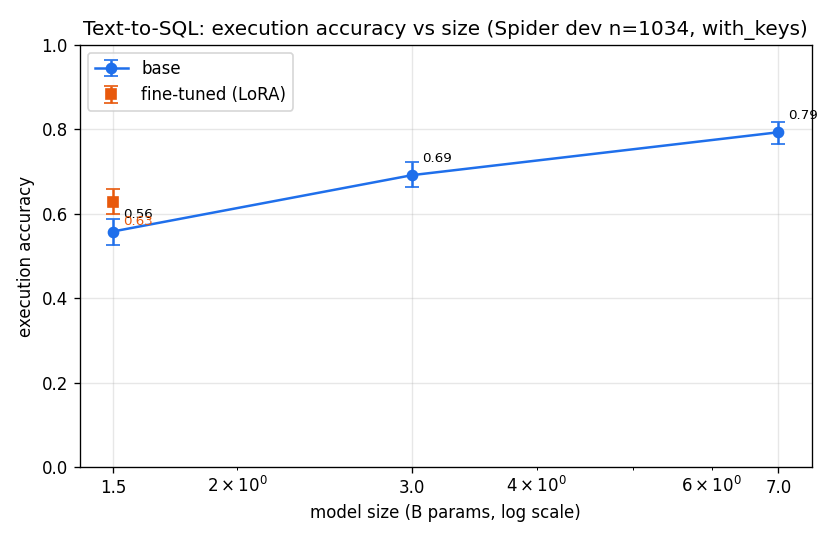
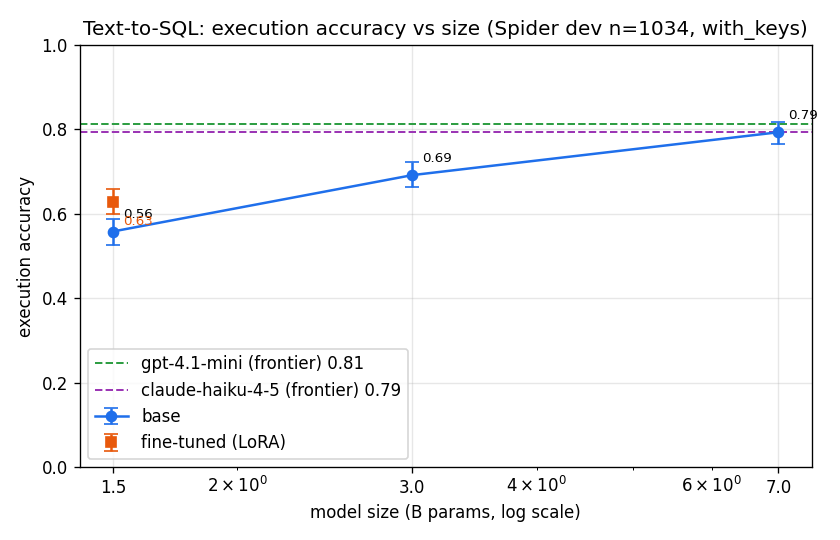
Frontier baseline: GPT-4.1-mini + Claude-haiku via LLMGateway (full dev, CIs)
- gateway.py: concurrent SQL generation via LLMGateway (same prompt/extract as local)
- run_frontier.py: frontier eval on full dev, same official evaluator + bootstrap CIs
- plot_ladder.py: overlays frontier reference lines on the size curve
- RESULT: open 7B (0.79) statistically ties Claude-haiku (0.79) + within noise of
  GPT-4.1-mini (0.81) — frontier-tier text-to-SQL runs locally
- REPORT.md + README updated with frontier rows + 'open matches frontier' finding

diff --git a/scripts/run_frontier.py b/scripts/run_frontier.py
@@ -1,0 +1,63 @@
+"""Frontier baseline — GPT/Claude via LLMGateway on the same Spider eval as the open ladder.
+
+Completes the open-vs-frontier comparison: same full dev set, same official evaluator,
+same with_keys schema, bootstrap CIs. Writes results/frontier.json.
+
+Run (WSL2): PYTHONPATH=src python scripts/run_frontier.py
+"""
+
+from __future__ import annotations
+
+import argparse
+import json
+import os
+from pathlib import Path
+
+from dotenv import load_dotenv
+
+load_dotenv()
+
+from text2sql.data import build_prompt, load_examples, load_schemas, serialize_schema
+from text2sql.evaluate import bootstrap_ci, per_example_execution
+from text2sql.gateway import generate_sql_gateway
+
+DATA = Path(os.environ.get("T2S_DATA", str(Path.home() / "t2s-data/data")))
+EVAL = Path(os.environ.get("T2S_EVAL", str(Path.home() / "t2s-data/test-suite-sql-eval")))
+DEFAULT_MODELS = ["gpt-4.1-mini", "claude-haiku-4-5"]
+
+
+def main() -> None:
+    ap = argparse.ArgumentParser()
+    ap.add_argument("--n", type=int, default=0, help="0 = full dev (1034)")
+    ap.add_argument("--schema-style", default="with_keys")
+    ap.add_argument("--models", default=",".join(DEFAULT_MODELS))
+    ap.add_argument("--workers", type=int, default=8)
+    args = ap.parse_args()
+
+    examples = load_examples(DATA / "dev.json")
+    if args.n:
+        examples = examples[: args.n]
+    schemas = load_schemas(DATA / "tables.json")
+    prompts = [build_prompt(ex.question, serialize_schema(schemas[ex.db_id], args.schema_style)) for ex in examples]
+    gold_pairs = [(ex.query, ex.db_id) for ex in examples]
+    models = [m.strip() for m in args.models.split(",") if m.strip()]
+    print(f"frontier | n={len(examples)} | models={models}")
+
+    results = []
+    for m in models:
+        preds = generate_sql_gateway(m, prompts, workers=args.workers)
+        flags = per_example_execution(preds, gold_pairs, DATA / "database", EVAL)
+        mean, lo, hi = bootstrap_ci(flags)
+        results.append({"label": m, "model": m, "frontier": True, "exec": round(mean, 4),
+                        "ci95": [round(lo, 4), round(hi, 4)], "n": len(examples)})
+        print(f"  {m:18s} exec={mean:.3f}  95% CI [{lo:.3f}, {hi:.3f}]")
+
+    Path("results").mkdir(exist_ok=True)
+    Path("results/frontier.json").write_text(
+        json.dumps({"schema_style": args.schema_style, "rows": results}, indent=2), encoding="utf-8"
+    )
+    print("wrote results/frontier.json")
+
+
+if __name__ == "__main__":
+    main()

diff --git a/src/text2sql/gateway.py b/src/text2sql/gateway.py
@@ -1,0 +1,43 @@
+"""Frontier SQL generation via LLMGateway (OpenAI-compatible) for the frontier baseline.
+
+Same prompt (SYSTEM + schema+question) and SQL extraction as the local path, so the
+frontier-vs-open comparison is apples-to-apples. Concurrent requests since the gateway
+has no batch-generation API.
+"""
+
+from __future__ import annotations
+
+import os
+from concurrent.futures import ThreadPoolExecutor
+from functools import lru_cache
+
+from openai import OpenAI
+
+from text2sql.data import SYSTEM
+from text2sql.infer import extract_sql
+
+
+@lru_cache(maxsize=1)
+def _client() -> OpenAI:
+    key = os.environ.get("LLMGATEWAY_API_KEY")
+    if not key:
+        raise RuntimeError("LLMGATEWAY_API_KEY not set (see .env)")
+    return OpenAI(api_key=key, base_url=os.environ.get("LLMGATEWAY_BASE_URL", "https://api.llmgateway.io/v1"))
+
+
+def _one(model: str, prompt: str) -> str:
+    try:
+        r = _client().chat.completions.create(
+            model=model,
+            messages=[{"role": "system", "content": SYSTEM}, {"role": "user", "content": prompt}],
+            temperature=0,
+            max_tokens=256,
+        )
+        return extract_sql(r.choices[0].message.content or "")
+    except Exception:  # noqa: BLE001
+        return "SELECT 1"
+
+
+def generate_sql_gateway(model: str, prompts: list[str], workers: int = 8) -> list[str]:
+    with ThreadPoolExecutor(max_workers=workers) as pool:
+        return list(pool.map(lambda p: _one(model, p), prompts))

diff --git a/scripts/plot_ladder.py b/scripts/plot_ladder.py
@@ -6,6 +6,7 @@ Run: PYTHONPATH=src python scripts/plot_ladder.py
 from __future__ import annotations
 
 import json
+import os
 
 import matplotlib
 
@@ -14,6 +15,9 @@ import matplotlib.pyplot as plt
 
 d = json.loads(open("results/ladder.json").read())
 rows = d["rows"]
+frontier = []
+if os.path.exists("results/frontier.json"):
+    frontier = json.loads(open("results/frontier.json").read())["rows"]
 base = sorted((r for r in rows if not r["ft"]), key=lambda r: r["size"])
 ft = [r for r in rows if r["ft"]]
 
@@ -35,6 +39,12 @@ if ft:
     plt.errorbar(fx, fy, yerr=err(ft), marker="s", linestyle="none", capsize=4, color="#e8590c", label="fine-tuned (LoRA)")
     for r in ft:
         plt.annotate(f"{r['exec']:.2f}", (r["size"], r["exec"]), textcoords="offset points", xytext=(6, -14), fontsize=8, color="#e8590c")
+
+# Frontier models as horizontal reference lines (no meaningful x-position).
+fcolors = ["#2f9e44", "#9c36b5", "#1098ad"]
+for i, r in enumerate(frontier):
+    plt.axhline(r["exec"], color=fcolors[i % len(fcolors)], linestyle="--", linewidth=1.2,
+                label=f"{r['label']} (frontier) {r['exec']:.2f}")
 
 plt.xscale("log")
 plt.xticks(xs, [str(s) for s in xs])

diff --git a/REPORT.md b/REPORT.md
@@ -9,6 +9,9 @@ check the rows), reporting bootstrap confidence intervals on the headline number
 
 - **Model size is the dominant lever.** Base execution accuracy on Spider dev (n=1034):
   **1.5B 0.56 → 3B 0.69 → 7B 0.79**, all CIs non-overlapping.
+- **Open matches frontier.** The open **7B (0.79)** is statistically tied with
+  **Claude-haiku-4-5 (0.79)** and within noise of **GPT-4.1-mini (0.81)** — a model you can
+  run on your own 24GB GPU reaches frontier-tier execution accuracy on this task.
 - **LoRA fine-tuning a 1.5B gives a real, significant lift: 0.56 → 0.63 (+7 pts)** — the
   fine-tuned 1.5B closes **~half the gap to a 2×-larger 3B base**. The efficiency story.
 - **Schema representation matters less but consistently:** adding column *types* hurt
@@ -37,19 +40,24 @@ fine-tuning, and how the database schema is serialized into the prompt.
 
 ## Results
 
-### Size + fine-tuning (full dev, n=1034, execution accuracy, 95% CI)
+### Size, fine-tuning, and frontier (full dev, n=1034, execution accuracy, 95% CI)
 
 ![accuracy vs size](results/ladder.png)
 
-| config | execution acc | 95% CI |
-|---|---|---|
-| 1.5B base | 0.558 | [0.527, 0.587] |
-| 3B base | 0.691 | [0.664, 0.721] |
-| 7B base | 0.793 | [0.766, 0.817] |
-| **1.5B fine-tuned** | **0.629** | [0.599, 0.659] |
+| config | tier | execution acc | 95% CI |
+|---|---|---|---|
+| 1.5B base | open | 0.558 | [0.527, 0.587] |
+| 1.5B fine-tuned | open | 0.629 | [0.599, 0.659] |
+| 3B base | open | 0.691 | [0.664, 0.721] |
+| **7B base** | open | **0.793** | [0.766, 0.817] |
+| claude-haiku-4-5 | frontier | 0.794 | [0.768, 0.819] |
+| gpt-4.1-mini | frontier | 0.811 | [0.787, 0.836] |
 
-Size scales cleanly and significantly. Fine-tuning the 1.5B lifts it +7 points into the
-gap between 1.5B and 3B base — you get roughly half a "size step" from a one-epoch LoRA.
+Size scales cleanly and significantly. Fine-tuning the 1.5B lifts it +7 points into the gap
+between 1.5B and 3B base — roughly half a "size step" from a one-epoch LoRA. And the **open
+7B (0.79) is statistically tied with the frontier models** (Claude-haiku 0.79, GPT-4.1-mini
+0.81 — CIs overlap): frontier-tier text-to-SQL runs locally. Frontier was evaluated through
+the same prompt, schema format, decoding, and official evaluator for a fair comparison.
 
 ### Schema representation (n=100, execution accuracy)
 
@@ -79,7 +87,8 @@ slice — would have told the wrong story.
 - Fine-tuned only the 1.5B; 3B/7B fine-tunes (and a fine-tuned size ladder) are future work.
 - **Contamination caveat:** Qwen2.5-Coder may have seen Spider in pretraining; treat
   absolute numbers as in-distribution. A held-out unseen-schema set would harden this.
-- Frontier-model comparison (matched prompts/decoding) not included in v1.
+- Frontier comparison uses the mid-tier `gpt-4.1-mini` / `claude-haiku-4-5` (the
+  plan-available models), not the largest flagships — so "matches frontier" means this tier.
 
 ## Reproduce
 
@@ -95,5 +104,5 @@ Trained on a single RTX 4090 (24GB) under WSL2; env via `uv`. See `docs/stack_de
 
 ## What I'd do next
 
-Fine-tune the full size ladder; add a frontier baseline (matched); a held-out unseen-schema
+Fine-tune the full size ladder; add larger frontier flagships; a held-out unseen-schema
 set for contamination; schema ablation at full dev with CIs; and the harder BIRD benchmark.

diff --git a/README.md b/README.md
@@ -29,21 +29,25 @@ Full writeup: **[REPORT.md](REPORT.md)**. Narrative version: [blog post](docs/bl
 
 ![accuracy vs size](results/ladder.png)
 
-| config | execution acc | 95% CI |
-|---|---|---|
-| 1.5B base | 0.558 | [0.527, 0.587] |
-| 3B base | 0.691 | [0.664, 0.721] |
-| 7B base | 0.793 | [0.766, 0.817] |
-| **1.5B fine-tuned** | **0.629** | [0.599, 0.659] |
+| config | tier | execution acc | 95% CI |
+|---|---|---|---|
+| 1.5B base | open | 0.558 | [0.527, 0.587] |
+| 1.5B fine-tuned | open | 0.629 | [0.599, 0.659] |
+| 3B base | open | 0.691 | [0.664, 0.721] |
+| **7B base** | open | **0.793** | [0.766, 0.817] |
+| claude-haiku-4-5 | frontier | 0.794 | [0.768, 0.819] |
+| gpt-4.1-mini | frontier | 0.811 | [0.787, 0.836] |
 
 **Findings:**
 1. **Size dominates** — 0.56 → 0.69 → 0.79, all CIs non-overlapping.
-2. **A one-epoch LoRA on the 1.5B is a significant +7 pts** (0.56→0.63), closing ~half the
+2. **Open matches frontier** — the open 7B (0.79) is statistically tied with Claude-haiku
+   (0.79) and within noise of GPT-4.1-mini (0.81). Frontier-tier text-to-SQL runs locally.
+3. **A one-epoch LoRA on the 1.5B is a significant +7 pts** (0.56→0.63), closing ~half the
    gap to a 2×-larger 3B base — the efficiency story.
-3. **Schema representation** ([ablation chart](results/schema_ablation_combined.png), n=100):
+4. **Schema representation** ([ablation chart](results/schema_ablation_combined.png), n=100):
    adding column *types* hurt execution; PK/FK keys helped exact-match; `minimal` already
    hits ~0.91 on the 7B.
-4. **Rigor caught a wrong conclusion:** at n=100 the fine-tuning effect looked flat; on full
+5. **Rigor caught a wrong conclusion:** at n=100 the fine-tuning effect looked flat; on full
    dev with CIs it's clearly positive. Small slices lie — hence the CIs.
 
 ## Run it